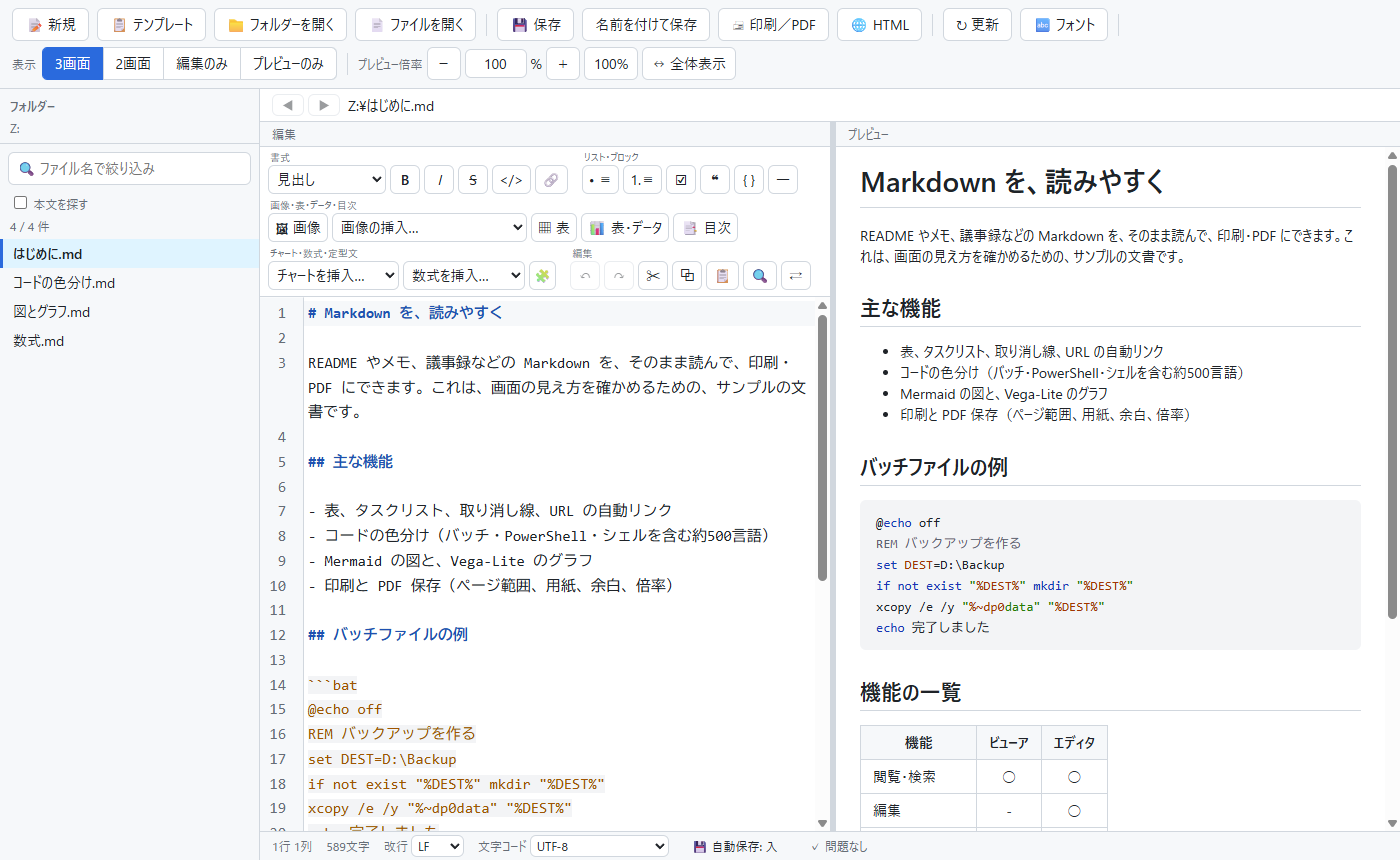
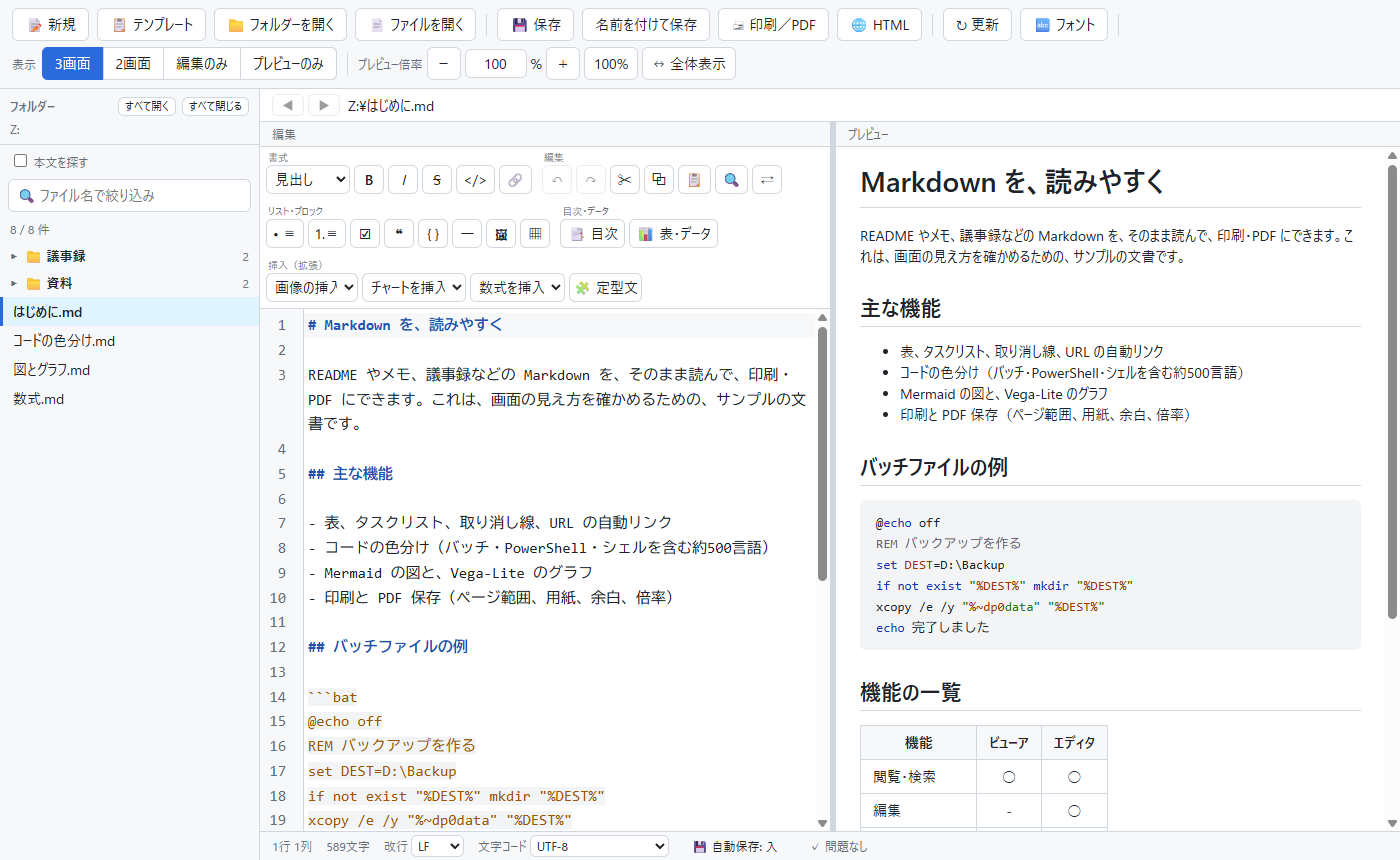
README のスクリーンショットを撮り直した（文書一覧のツリー表示・開閉ボタンの新しい配置）
- サンプルに、サブフォルダー（議事録・資料）を足し、一覧の木が写るようにした
- tools/make_screenshots.ps1 は、サンプルのサブフォルダーも写す

Changed region(s): [[0.1843, 0.1814, 0.5836, 0.9674], [0.0, 0.0907, 0.1843, 0.4837]]

diff --git a/docs/sample/議事録/第1回理事会.md b/docs/sample/議事録/第1回理事会.md
@@ -1,0 +1,6 @@
+# 理事会の議事録（サンプル）
+
+画面の見え方を確かめるための、サンプルの文書です。
+
+- 議題1: 修繕計画について
+- 議題2: 会計報告

diff --git a/docs/sample/資料/用語集.md b/docs/sample/資料/用語集.md
@@ -1,0 +1,5 @@
+# 用語集（サンプル）
+
+| 用語 | 意味 |
+| --- | --- |
+| 細則 | 規約を補う決まり |

diff --git a/docs/sample/議事録/第2回理事会.md b/docs/sample/議事録/第2回理事会.md
@@ -1,0 +1,3 @@
+# 第2回理事会（サンプル）
+
+- 決まったこと: 次回までに見積りを集める

diff --git a/docs/sample/資料/参考リンク.md b/docs/sample/資料/参考リンク.md
@@ -1,0 +1,3 @@
+# 参考リンク（サンプル）
+
+- [Markdown の書き方](https://example.com)
